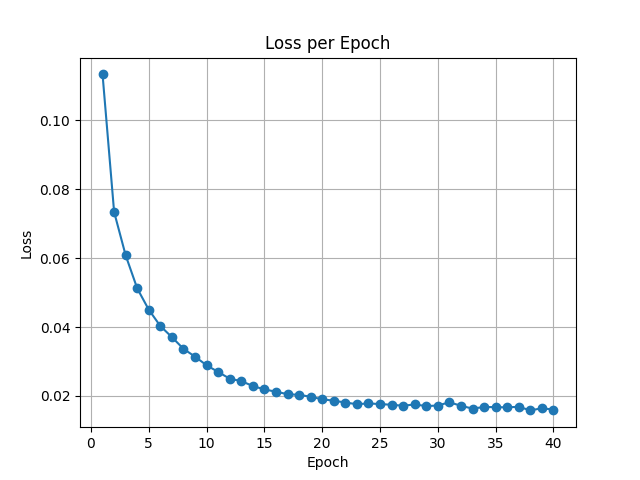
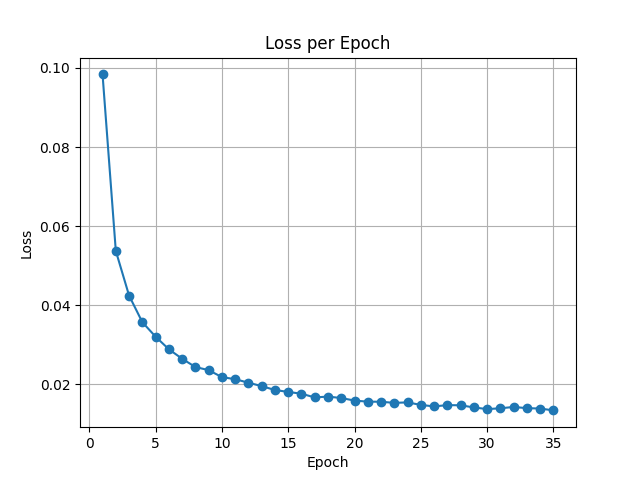
nice

diff --git a/object_detection_train.py b/object_detection_train.py
@@ -12,13 +12,13 @@ import torch
 import matplotlib.pyplot as plt
 
 # Function to send email notification
-def send_email(total_time, avg_time_per_epoch):
+def send_email(hours, minutes, avg_time_per_epoch):
     sender_email = "bakerherrin2@gmail.com"
     receiver_email = "bakerherrin2@gmail.com"
-    password = "BH13579#a"  # Replace with your Gmail password or app-specific password
+    password = "cdvi gqha lund weld"  # Replace with your Gmail password or app-specific password
 
     subject = "Training Complete - Faster R-CNN"
-    body = f"Training is complete.\n\nTotal Training Time: {total_time:.2f} seconds\nAverage Time per Epoch: {avg_time_per_epoch:.2f} seconds"
+    body = f"Training is complete.\n\nTotal Training Time: {hours} hours and {minutes} minutes\nAverage Time per Epoch: {avg_time_per_epoch:.2f} seconds"
 
     msg = MIMEMultipart()
     msg['From'] = sender_email
@@ -44,8 +44,8 @@ start_time = time.time()
 # Custom dataset loader for your own data
 transform = transforms.Compose([transforms.ToTensor()])
 classes = 2
-dir_path = "data/archive/ugv_dataset_v7/train/images"
-ann_path = "data/archive/ugv_dataset_v7/train/labels" 
+dir_path = "data/archive/ugv_dataset_v6/train/images"
+ann_path = "data/archive/ugv_dataset_v6/train/labels" 
 
 width = 640
 height = 640
@@ -66,7 +66,7 @@ optimizer = optim.SGD(model.parameters(), lr=0.001, momentum=0.9, weight_decay=0
 
 model.train()
 
-num_epochs = 40
+num_epochs = 35
 loss_per_epoch = []
 epoch_times = []
 
@@ -110,10 +110,11 @@ total_training_time = time.time() - start_time
 avg_time_per_epoch = sum(epoch_times) / num_epochs
 
 # Send email notification
-send_email(total_training_time, avg_time_per_epoch)
+hours, minutes = divmod(total_training_time // 60, 60)
+send_email(hours, minutes, avg_time_per_epoch)
 
 # Save the model after training
-torch.save(model, 'models/ugvs/fasterrcnn_resnet50_fpn_ugv_v7.pth')
+torch.save(model, 'models/ugvs/fasterrcnn_resnet50_fpn_ugv_v6.pth')
 
 # Plotting the loss per epoch
 plt.figure()

diff --git a/raite_inference.py b/raite_inference.py
@@ -19,9 +19,9 @@ transform = transforms.Compose([
 ])
 
 # dir_path = "data/archive/test_sets/drone/t2_autonomyPark150/images"
-# dir_path = "/home/eherrin@ad.ufl.edu/code/gitlab_dev/raiteclassify/data/archive/test_sets/drone/t2_autonomyPark150/images"
+dir_path = "/home/eherrin@ad.ufl.edu/code/gitlab_dev/raiteclassify/data/archive/test_sets/drone/t2_autonomyPark150/images"
 # dir_path = "/home/eherrin@ad.ufl.edu/code/gitlab_dev/raiteclassify/data/archive/test_sets/special_cases/cars/images"
-dir_path = "/home/eherrin@ad.ufl.edu/code/gitlab_dev/raiteclassify/data/archive/test_sets/special_cases/backpacks/images"
+# dir_path = "/home/eherrin@ad.ufl.edu/code/gitlab_dev/raiteclassify/data/archive/test_sets/special_cases/backpacks/images"
 
 all_images = sorted(
             [f for f in os.listdir(dir_path) if f.endswith(".jpg") or f.endswith(".png")]
@@ -45,11 +45,11 @@ for image_name in all_images:
 # Move images to the same device as the model
 test_images = [image.to(device) for image in test_images]
 
-centerTracker = CentroidTracker(maxDisappeared=2)
+centerTracker = CentroidTracker(maxDisappeared=5)
 anomalyDetector = attackDetector(brightness_threshold=50)
 
 # Load the weights
-model = torch.load('models/ugvs/fasterrcnn_resnet50_fpn_ugv_v3.pth')
+model = torch.load('models/ugvs/fasterrcnn_resnet50_fpn_ugv_v7.pth')
 model.to(device)
 model.eval()
 

diff --git a/evaluate.py b/evaluate.py
@@ -233,7 +233,7 @@ class DetectionEvaluator:
 
 ###########################
 
-def evaluate_all_test_sets(model_path='models/ugvs/fasterrcnn_resnet50_fpn_ugv_v4.pth', dir="data/archive/test_sets/ugv"):
+def evaluate_all_test_sets(model_path='models/ugvs/fasterrcnn_resnet50_fpn_ugv_v7.pth', dir="data/archive/test_sets/ugv"):
     '''
     
     '''
@@ -300,4 +300,4 @@ if __name__ == '__main__':
     # print(ap_results)
     # print(area_results)
     #evaluate_all_test_sets(model_path='models/drones/fasterrcnn_resnet50_fpn_drone_v3.pth', dir="data/archive/test_sets/drone")
-    evaluate_all_test_sets(model_path='models/ugvs/fasterrcnn_resnet50_fpn_ugv_v5.pth', dir="data/archive/test_sets/ugv")
+    evaluate_all_test_sets(model_path='models/ugvs/fasterrcnn_resnet50_fpn_ugv_v7.pth', dir="data/archive/test_sets/ugv")
